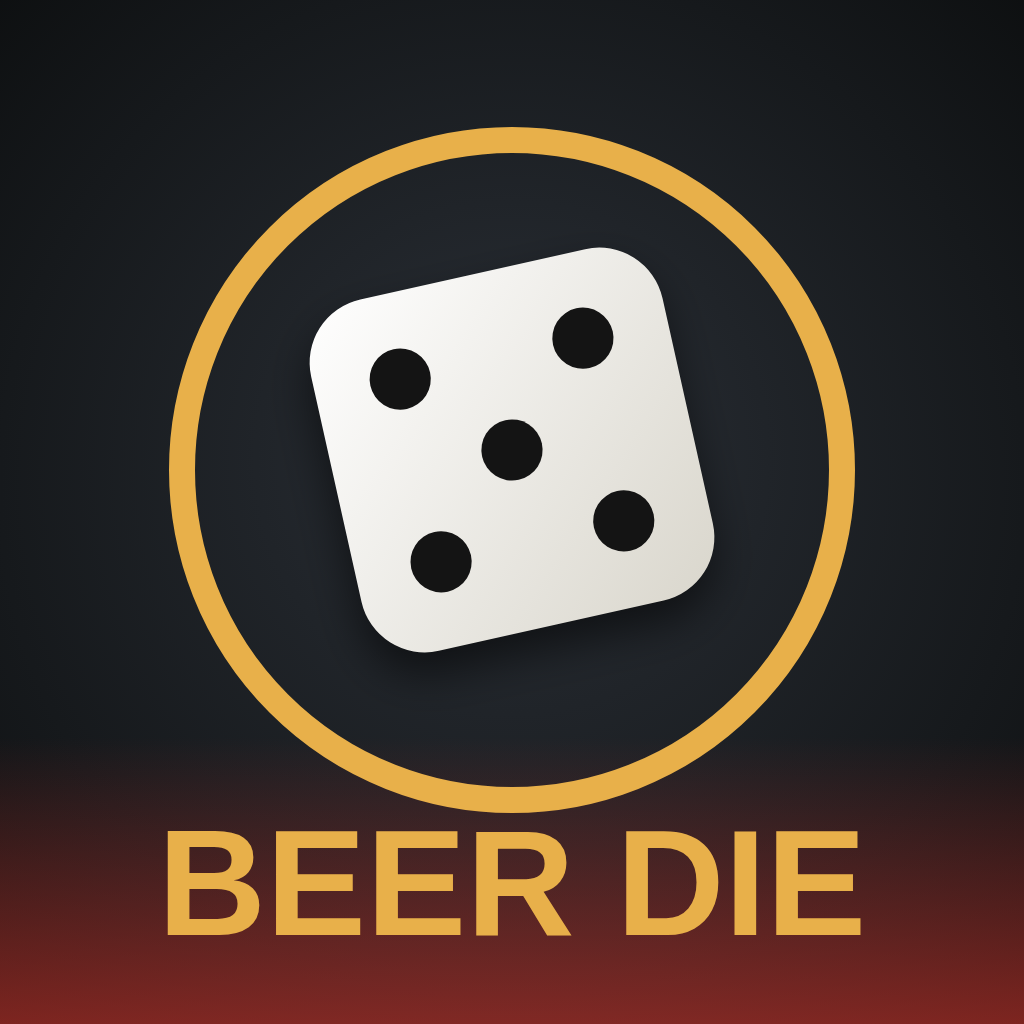
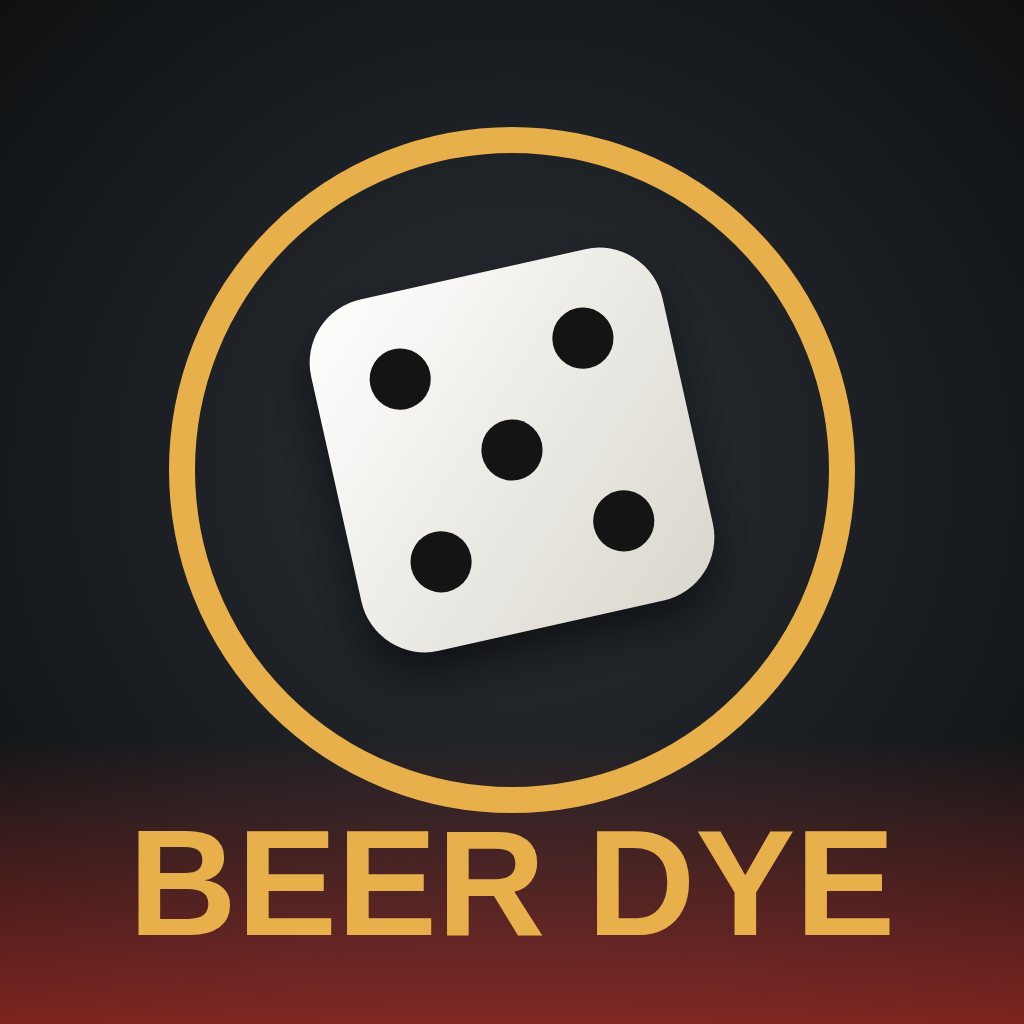
Rename the game to Beer Dye
Title, menus, sign-in, table designs, gym banners, stadium floor and sign,
privacy page, guides, iOS app name, icon and launch screen.

Claude-Session: https://claude.ai/code/session_01VGpjD6RAisH1YtXF6ACugB

Changed region(s): [[0.125, 0.8125, 0.875, 0.9375]]

diff --git a/index.html b/index.html
@@ -5,7 +5,7 @@
 <meta name="viewport" content="width=device-width,initial-scale=1,viewport-fit=cover">
 <meta name="theme-color" content="#0c0e0f">
 <meta name="apple-mobile-web-app-capable" content="yes">
-<title>Beer Die</title>
+<title>Beer Dye</title>
 <link rel="preconnect" href="https://fonts.googleapis.com">
 <link rel="stylesheet" href="https://fonts.googleapis.com/css2?family=Big+Shoulders+Display:wght@700;800;900&family=IBM+Plex+Sans+Condensed:wght@400;500;600&family=Caveat:wght@600&display=swap">
 <style>
@@ -197,7 +197,7 @@ input::placeholder{color:#7d8280}
 <section class="lobby" id="lobby">
   <div class="lobby-in">
     <header class="top">
-      <h1 class="brand">Beer <span>Die</span></h1>
+      <h1 class="brand">Beer <span>Dye</span></h1>
       <div class="me"><label class="lbl" for="nameIn">Your name</label><input id="nameIn" maxlength="16" placeholder="e.g. King" autocomplete="off">
         <div class="lvlrow"><b id="lvl">Lv 1</b><div class="xpbar"><i id="xpfill"></i></div><span id="xptext">0 / 150 XP</span></div>
         <div class="acct" id="acct" hidden><span id="acctText"></span><button class="linkbtn" id="acctBtn" type="button"></button><button class="linkbtn danger" id="acctDel" type="button" hidden>Delete account</button></div></div>
@@ -279,7 +279,7 @@ input::placeholder{color:#7d8280}
 
 <section class="auth" id="auth" hidden>
   <div class="auth-card">
-    <h1 class="brand">Beer <span>Die</span></h1>
+    <h1 class="brand">Beer <span>Dye</span></h1>
     <p class="tag">Sign in to keep your level, arenas and tables on every device.</p>
     <nav class="tabs auth-tabs">
       <button class="tab" type="button" aria-selected="true" data-mode="in">Sign in</button>
@@ -1128,8 +1128,8 @@ function proTop(base, stripe){
     g.fillStyle = base; g.fillRect(0,0,w,h);
     for (let i=0;i<2500;i++){ g.fillStyle = `rgba(255,255,255,${rnd(0,.025)})`; g.fillRect(rnd(0,w), rnd(0,h), 2, rnd(2,8)); }
     g.strokeStyle = stripe; g.lineWidth = 14; g.strokeRect(18, 18, w-36, h-36);
-    g.save(); g.translate(w/2, h*0.25); g.rotate(Math.PI); g.fillStyle = 'rgba(255,255,255,.12)'; g.font = '900 88px "Big Shoulders Display", sans-serif'; g.textAlign = 'center'; g.fillText('BEER DIE', 0, 30); g.restore();
-    g.fillStyle = 'rgba(255,255,255,.12)'; g.font = '900 88px "Big Shoulders Display", sans-serif'; g.textAlign = 'center'; g.fillText('BEER DIE', w/2, h*0.75 + 30);
+    g.save(); g.translate(w/2, h*0.25); g.rotate(Math.PI); g.fillStyle = 'rgba(255,255,255,.12)'; g.font = '900 88px "Big Shoulders Display", sans-serif'; g.textAlign = 'center'; g.fillText('BEER DYE', 0, 30); g.restore();
+    g.fillStyle = 'rgba(255,255,255,.12)'; g.font = '900 88px "Big Shoulders Display", sans-serif'; g.textAlign = 'center'; g.fillText('BEER DYE', w/2, h*0.75 + 30);
   })});
 }
 function buildArena(key){
@@ -1188,7 +1188,7 @@ function buildArena(key){
     for (let r=0;r<7;r++){ const z = -10.5 - r*1.3, y = 0.55 + r*0.95; addBox(grp, 30, 0.2, 1.1, bench, 0, y, z); addBox(grp, 30, y, 0.12, paint, 0, y/2, z + 0.55);
       for (let x=-14;x<=14;x+=1.05) if (Math.random() < 0.82) sp.push({x: x + rnd(-0.1,0.1), y: y + 0.1, z}); }
     const wallMat = new THREE.MeshStandardMaterial({map: blockMap, color: 0xdfe6f0, roughness: 0.9});
-    ['#13305c','#d9362c','#e8b04a'].forEach((c, i) => { const bn = new THREE.Mesh(new THREE.PlaneGeometry(2.6, 4), new THREE.MeshStandardMaterial({roughness: 0.9, side: THREE.DoubleSide, map: canvasTex(128, 196, (g, w, h) => { g.fillStyle = c; g.fillRect(0,0,w,h); g.fillStyle = '#fff'; g.font = '900 30px "Big Shoulders Display", sans-serif'; g.textAlign = 'center'; g.fillText('BEER', w/2, 80); g.fillText('DIE', w/2, 112); g.font = '700 16px sans-serif'; g.fillText(['2024','2025','2026'][i], w/2, 150); })})); bn.position.set(-6 + i*6, 10.5, -12.9); grp.add(bn); });
+    ['#13305c','#d9362c','#e8b04a'].forEach((c, i) => { const bn = new THREE.Mesh(new THREE.PlaneGeometry(2.6, 4), new THREE.MeshStandardMaterial({roughness: 0.9, side: THREE.DoubleSide, map: canvasTex(128, 196, (g, w, h) => { g.fillStyle = c; g.fillRect(0,0,w,h); g.fillStyle = '#fff'; g.font = '900 30px "Big Shoulders Display", sans-serif'; g.textAlign = 'center'; g.fillText('BEER', w/2, 80); g.fillText('DYE', w/2, 112); g.font = '700 16px sans-serif'; g.fillText(['2024','2025','2026'][i], w/2, 150); })})); bn.position.set(-6 + i*6, 10.5, -12.9); grp.add(bn); });
     cfg = {floor: court, back: wallMat, side: wallMat, walls: true, bg: 0x1a1d22, fog: [30, 70], lamp: [0xffffff, 2.4, 1.15], hemi: [0xf2f5ff, 0x5a4630, 0.6], top: proTop('#13305c', '#f0f0ea'), pendant: false, spots: sp, seated: true};
   } else {
     const turf = new THREE.MeshStandardMaterial({roughness: 0.5, metalness: 0.05, map: canvasTex(1024, 1024, (g, w, h) => {
@@ -1203,7 +1203,7 @@ function buildArena(key){
       g.strokeStyle = '#1d3f7a'; g.lineWidth = 36; g.strokeRect(60, 60, w-120, h-120);
       g.strokeStyle = 'rgba(232,176,74,.8)'; g.lineWidth = 3; g.strokeRect(82, 82, w-164, h-164);
       g.fillStyle = 'rgba(232,176,74,.55)'; g.font = '900 64px "Big Shoulders Display", sans-serif'; g.textAlign = 'center';
-      g.fillText('BEER DIE', w/2, h*0.2); g.save(); g.translate(w/2, h*0.8); g.rotate(Math.PI); g.fillText('BEER DIE', 0, 0); g.restore();
+      g.fillText('BEER DYE', w/2, h*0.2); g.save(); g.translate(w/2, h*0.8); g.rotate(Math.PI); g.fillText('BEER DYE', 0, 0); g.restore();
     }, null, true, 2)});
     const concrete = new THREE.MeshStandardMaterial({color: 0x6b6f75, roughness: 0.9});
     const seat = new THREE.MeshStandardMaterial({color: 0x1d3f7a, roughness: 0.6});
@@ -1215,7 +1215,7 @@ function buildArena(key){
     const pole = new THREE.MeshStandardMaterial({color: 0x3a3d42, roughness: 0.5, metalness: 0.6}), panel = new THREE.MeshBasicMaterial({color: 0xffffff});
     [[-24,-24],[24,-24],[-24,14],[24,14]].forEach(([x,z]) => { addBox(grp, 0.7, 34, 0.7, pole, x, 17, z); const p = addBox(grp, 6, 3, 0.4, panel, x*0.97, 34, z*0.97); p.lookAt(0, 0, 0); });
     const flood = new THREE.DirectionalLight(0xf4f7ff, 0.55); flood.position.set(-10, 30, 10); grp.add(flood);
-    const board2 = new THREE.Mesh(new THREE.PlaneGeometry(16, 6), new THREE.MeshBasicMaterial({map: canvasTex(512, 192, (g, w, h) => { g.fillStyle = '#05070b'; g.fillRect(0,0,w,h); g.strokeStyle = '#e8b04a'; g.lineWidth = 6; g.strokeRect(6,6,w-12,h-12); g.fillStyle = '#e8b04a'; g.font = '900 96px "Big Shoulders Display", sans-serif'; g.textAlign = 'center'; g.fillText('BEER DIE', w/2, 128); })}));
+    const board2 = new THREE.Mesh(new THREE.PlaneGeometry(16, 6), new THREE.MeshBasicMaterial({map: canvasTex(512, 192, (g, w, h) => { g.fillStyle = '#05070b'; g.fillRect(0,0,w,h); g.strokeStyle = '#e8b04a'; g.lineWidth = 6; g.strokeRect(6,6,w-12,h-12); g.fillStyle = '#e8b04a'; g.font = '900 96px "Big Shoulders Display", sans-serif'; g.textAlign = 'center'; g.fillText('BEER DYE', w/2, 128); })}));
     board2.position.set(0, 26, -32); grp.add(board2);
     stars(grp, 350);
     cfg = {floor: turf, floorScale: 2.2, walls: false, bg: 0x04060c, fog: [45, 110], lamp: [0xffffff, 2.6, 1.15], hemi: [0xd8e2ff, 0x2a2e36, 0.6], top: proTop('#0d0f12', '#e8b04a'), pendant: false, spots: sp, seated: true};
@@ -1286,7 +1286,7 @@ function tableMat(key){
       g.fillStyle = '#fff'; g.textAlign = 'center';
       g.beginPath(); g.arc(w/2, hh*0.34, 78, 0, 7); g.lineWidth = 6; g.strokeStyle = '#fff'; g.stroke();
       g.font = '900 88px "Big Shoulders Display", sans-serif'; g.fillText(IS_APP ? 'BD' : 'UD', w/2, hh*0.34 + 30);
-      g.font = '800 58px "Big Shoulders Display", sans-serif'; g.fillText(IS_APP ? 'BEER DIE' : 'UNIVERSITY', w/2, hh*0.66);
+      g.font = '800 58px "Big Shoulders Display", sans-serif'; g.fillText(IS_APP ? 'BEER DYE' : 'UNIVERSITY', w/2, hh*0.66);
       g.fillText(IS_APP ? 'UNIVERSITY' : 'OF DALLAS', w/2, hh*0.66 + 54);
       g.font = '600 22px "IBM Plex Sans Condensed", sans-serif'; g.fillText(IS_APP ? 'E S T .   2 0 2 6' : 'C R U S A D E R S', w/2, hh*0.66 + 92);
     });
@@ -1567,7 +1567,7 @@ function waitingScreen(text, names, need){
   const have = names ? names.length : 1, total = need || (hostCfg.fmt === '2v2' ? 4 : 2);
   $('status').textContent = 'Players ' + have + '/' + total + (names ? ': ' + names.join(', ') : '') + (have < total ? '. Waiting…' : '');
 }
-const OFFLINE_MSG = 'Live play can’t connect on this device. Open Beer Die from an invite sent to your email (Share → add your email), signed in to Claude. A public link won’t work. Practice vs CPU works anywhere.';
+const OFFLINE_MSG = 'Live play can’t connect on this device. Open Beer Dye from an invite sent to your email (Share → add your email), signed in to Claude. A public link won’t work. Practice vs CPU works anywhere.';
 let offline = false;
 function needRoom(){ if (room) return true; $('netNote').textContent = offline ? OFFLINE_MSG : 'Still connecting. Try again in a second.'; $('netNote').style.color = 'var(--gold)'; return false; }
 let hostCfg = {fmt: '1v1', pub: true};

diff --git a/privacy.html b/privacy.html
@@ -3,7 +3,7 @@
 <head>
 <meta charset="utf-8">
 <meta name="viewport" content="width=device-width,initial-scale=1,viewport-fit=cover">
-<title>Beer Die Privacy Policy</title>
+<title>Beer Dye Privacy Policy</title>
 <style>
   :root{--bg:#0f1113;--fg:#ecebe6;--muted:#a4a8a6;--gold:#e8b04a;--line:rgba(255,255,255,.12)}
   html,body{margin:0;background:var(--bg);color:var(--fg);font:16px/1.6 system-ui,-apple-system,"Segoe UI",sans-serif}
@@ -20,10 +20,10 @@
 </head>
 <body>
 <main>
-  <h1>Beer <span>Die</span> Privacy Policy</h1>
+  <h1>Beer <span>Dye</span> Privacy Policy</h1>
   <p class="meta">Last updated September 30, 2026</p>
 
-  <p>Beer Die is a casual game. This page explains what information the game uses, why, and how you can delete it.</p>
+  <p>Beer Dye is a casual game. This page explains what information the game uses, why, and how you can delete it.</p>
 
   <h2>What we collect</h2>
   <ul>
@@ -49,13 +49,13 @@
   <p>In the game, open the menu and tap <b>Delete account</b> under your level. This permanently deletes your account and saved progress. Guests can clear their progress by deleting the app or clearing the site’s data in their browser.</p>
 
   <h2>Children</h2>
-  <p>Beer Die is intended for adults and is not directed at children under 13.</p>
+  <p>Beer Dye is intended for adults and is not directed at children under 13.</p>
 
   <h2>Contact</h2>
   <p>Questions, requests, or reports: <b>matthiasgomez26@gmail.com</b></p>
 
   <hr>
-  <p><a href="./">Back to Beer Die</a></p>
+  <p><a href="./">Back to Beer Dye</a></p>
 </main>
 </body>
 </html>

diff --git a/firebase-config.js b/firebase-config.js
@@ -1,4 +1,4 @@
-// Beer Die accounts: paste your Firebase web app config here to turn on logins.
+// Beer Dye accounts: paste your Firebase web app config here to turn on logins.
 // Firebase console → Project settings → Your apps → Web app → "SDK setup and configuration" → Config.
 // These values are not secrets; access is protected by the Firestore rules in ACCOUNTS.md.
 // Leave it as null and the game runs without accounts (progress stays on each phone).

diff --git a/APP.md b/APP.md
@@ -1,4 +1,4 @@
-# Putting Beer Die on the App Store (with ads)
+# Putting Beer Dye on the App Store (with ads)
 
 Everything in this repository is already set up for an iPhone app: the Xcode project (`ios/`), the app icon and launch screen, AdMob ads between games, account deletion, chat report/block, and a privacy policy page. What's left needs your Apple and Google accounts and your Mac.
 
@@ -48,7 +48,7 @@ Any time the game changes, run `npm run ios` again to rebuild the app with the l
 
 ## 4. Real ads: set up Google AdMob
 1. Go to https://admob.google.com and sign in with your Google account. Fill in payment info (this is how you get paid).
-2. **Apps → Add app → iOS**. Say it's not published yet. Name it **Beer Die**.
+2. **Apps → Add app → iOS**. Say it's not published yet. Name it **Beer Dye**.
 3. Copy the **App ID** (looks like `ca-app-pub-1234567890123456~1234567890`, with a `~`).
 4. **Ad units → Add ad unit → Interstitial**, name it `between-games`. Copy the **ad unit ID** (with a `/`).
 5. In this repository:
@@ -60,7 +60,7 @@ Never tap your own real ads; Google bans accounts for that. Keep `testing: true`
 
 ## 5. Create the app in App Store Connect
 1. https://appstoreconnect.apple.com → **Apps → + → New App**.
-   - Platform: iOS · Name: **Beer Die** (or another name if taken) · Language: English
+   - Platform: iOS · Name: **Beer Dye** (or another name if taken) · Language: English
    - Bundle ID: **com.matthiasg26.beerdie** (create it at developer.apple.com → Identifiers if it's not listed)
    - SKU: `beerdie1`
 2. **App Privacy**: answer the questionnaire:

diff --git a/ACCOUNTS.md b/ACCOUNTS.md
@@ -1,4 +1,4 @@
-# Turning on Beer Die accounts (Firebase)
+# Turning on Beer Dye accounts (Firebase)
 
 Accounts keep each player's level, XP, name, arena and table in the cloud, so progress follows them to any phone. Until `firebase-config.js` is filled in, the game runs without logins and progress stays on each device.
 
